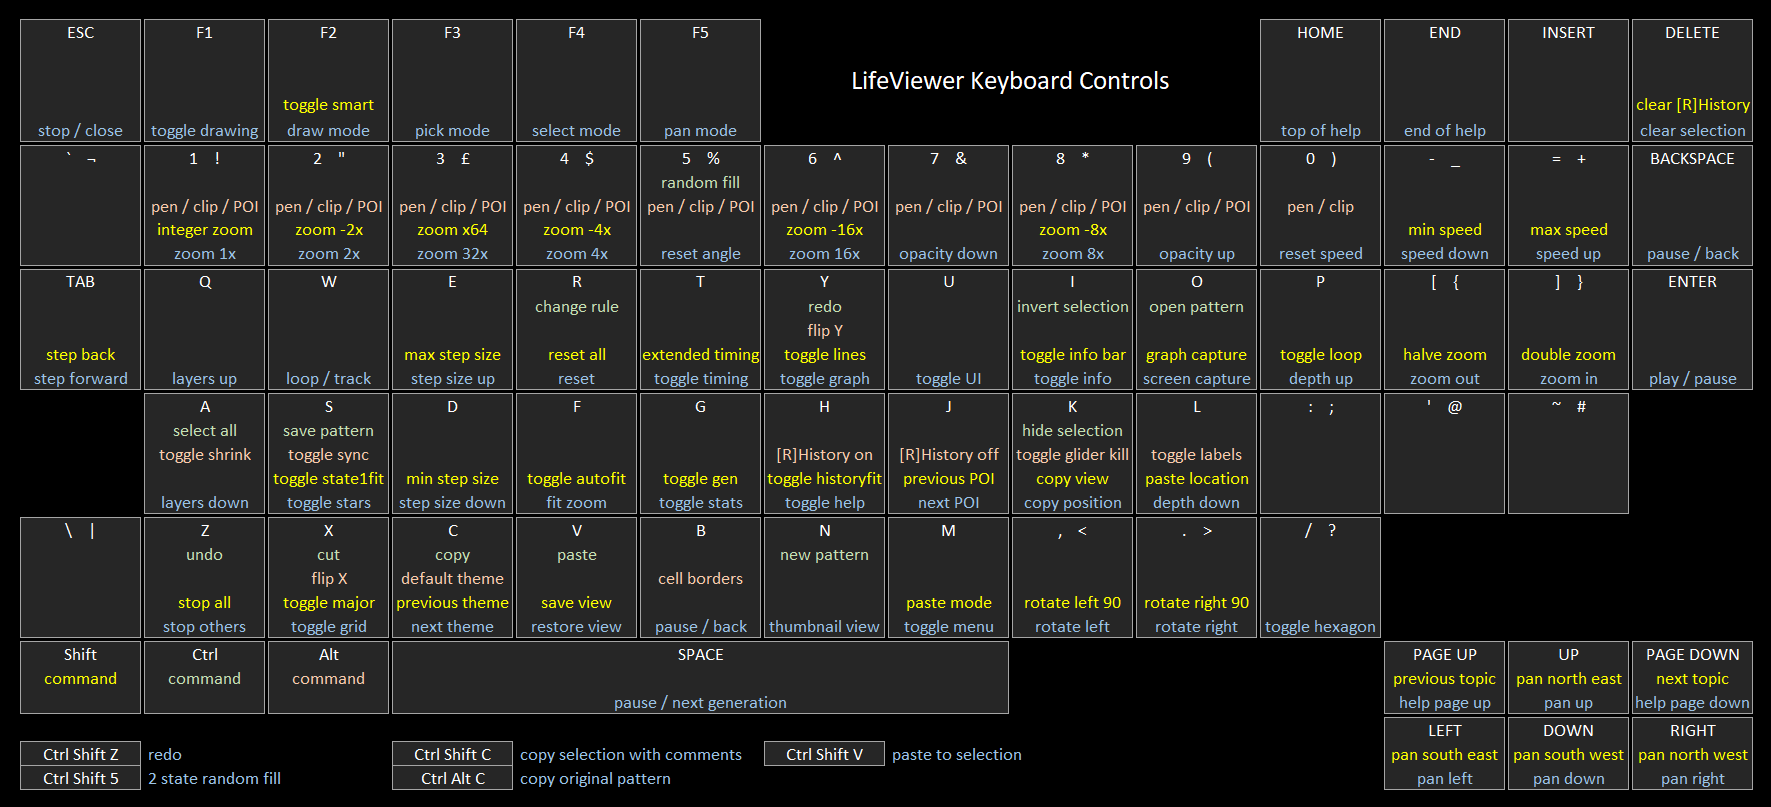
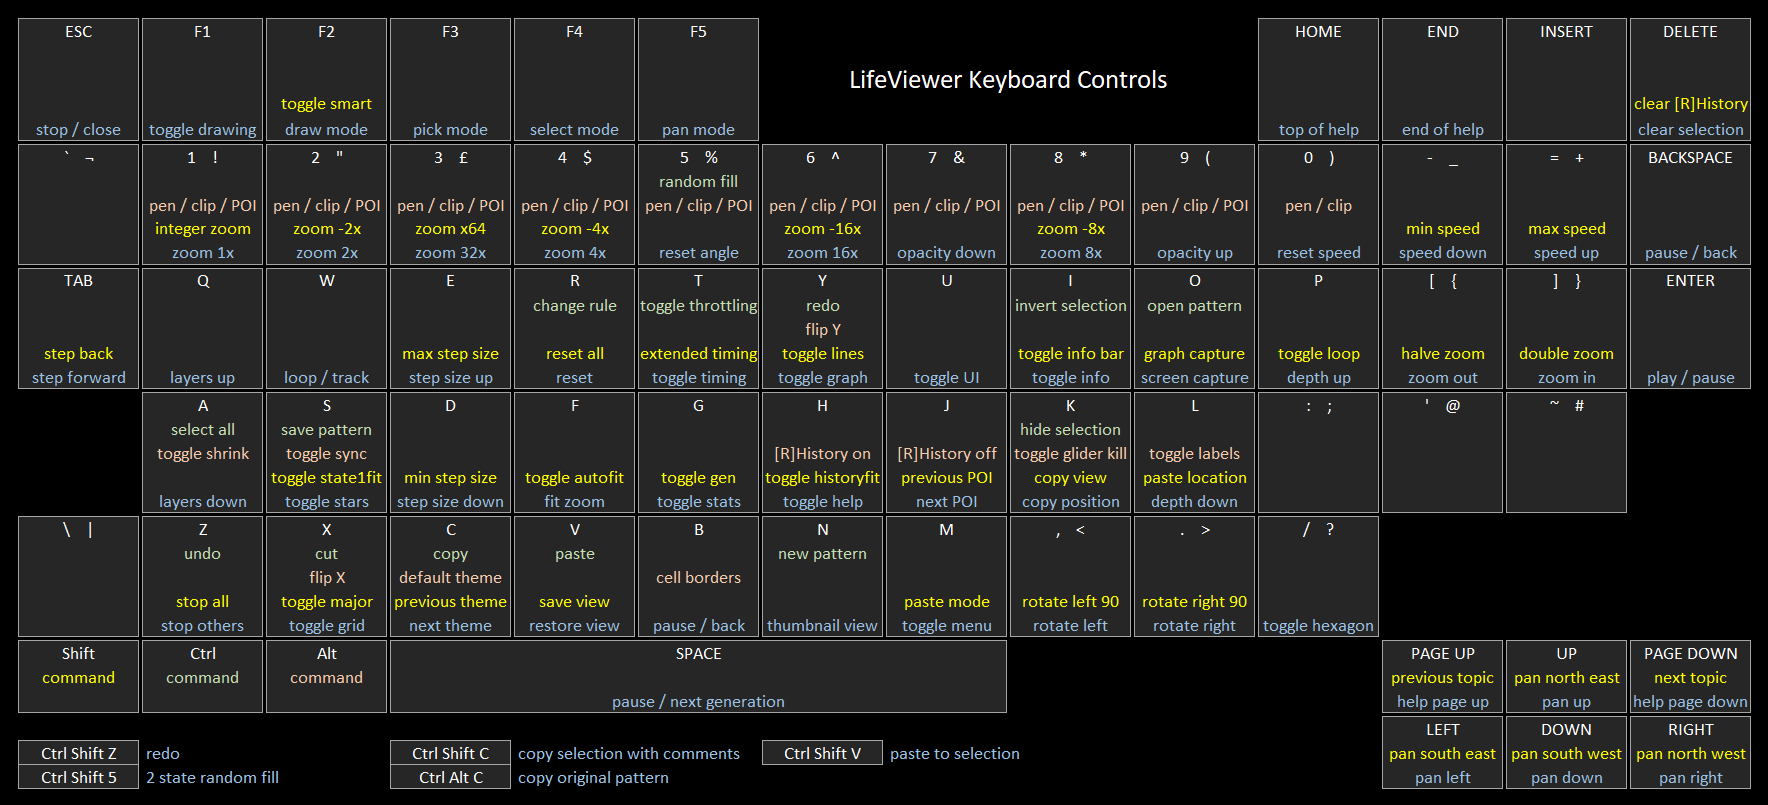
hexagons and triangles now respect [R]History colours, [R]History COLOR commands were being ignored, toggle throttling

diff --git a/js/life.js b/js/life.js
@@ -905,6 +905,8 @@
 	Life.prototype.drawTriangles = function() {
 		var colourGrid = this.colourGrid,
 			colourRow = null,
+			overlayGrid = this.overlayGrid,
+			overlayRow = null,
 			zoomBox = this.historyBox,
 			/** @const {number} */ halfDisplayWidth = this.displayWidth / 2,
 			/** @const {number} */ halfDisplayHeight = this.displayHeight / 2,
@@ -974,12 +976,22 @@
 			displayY = (((y - h2) + yOff) * zoom) + halfDisplayHeight;
 			if (displayY >= -zoom && displayY < this.displayHeight + zoom) {
 				colourRow = colourGrid[y];
+				if (overlayGrid) {
+					overlayRow = overlayGrid[y];
+				}
 				cy = (y - h2);
 				xOffset = xOff - w2;
 				for (x = leftX; x <= rightX; x += 1) {
 					displayX = ((x + xOffset) * zoom) + halfDisplayWidth;
 					if (displayX >= -zoom && displayX < this.displayWidth + zoom * 2) {
-						state = colourRow[x];
+						if (overlayRow) {
+							state = overlayRow[x];
+							if (state === 0) {
+								state = colourRow[x];
+							}
+						} else {
+							state = colourRow[x];
+						}
 						if (state > 0) {
 							// encode coordinate index into the colour state so it can be sorted later
 							colours[j] = (state << LifeConstants.coordBufferBits) + k;
@@ -1513,6 +1525,8 @@
 	Life.prototype.drawHexagons = function() {
 		var colourGrid = this.colourGrid,
 			colourRow = null,
+			overlayGrid = this.overlayGrid,
+			overlayRow = null,
 			zoomBox = this.historyBox,
 			/** @const {number} */ halfDisplayWidth = this.displayWidth / 2,
 			/** @const {number} */ halfDisplayHeight = this.displayHeight / 2,
@@ -1619,12 +1633,22 @@
 			displayY = ((y + yOff - h2) * zoom) + halfDisplayHeight;
 			if (displayY >= -zoom && displayY < this.displayHeight + zoom) {
 				colourRow = colourGrid[y];
+				if (overlayGrid) {
+					overlayRow = overlayGrid[y];
+				}
 				cy = y - h2;
 				xOffset = xOff - w2 - ((cy + yOff) / 2);
 				for (x = leftX; x <= rightX; x += 1) {
 					displayX = ((x + xOffset) * zoom) + halfDisplayWidth;
 					if (displayX >= -zoom && displayX < this.displayWidth + zoom) {
-						state = colourRow[x];
+						if (overlayRow) {
+							state = overlayRow[x];
+							if (state === 0) {
+								state = colourRow[x];
+							}
+						} else {
+							state = colourRow[x];
+						}
 						if (state > 0) {
 							// encode coordinate index into the colour state so it can be sorted later
 							colours[j] = (state << LifeConstants.coordBufferBits) + k;
@@ -4227,17 +4251,17 @@
 		greenChannel = this.greenChannel,
 		blueChannel = this.blueChannel,
 		i = 0,
-		stateColour = 0,
-		numCustom = (customColours ? customColours.length : 0);
+		stateColour = 0;
 
 		// create multi-state pixel colours
 		for (i = 0; i < colourList.length; i += 1) {
 			// check if a custom colour is defined
-			if ((i >= numCustom) || (customColours && customColours[i] === -1)) {
+			if (customColours && customColours[i] !== -1) {
+				// use the custom colour
+				stateColour = customColours[i];
+			} else {
 				// use the library colour
 				stateColour = colourList[i];
-			} else {
-				stateColour = customColours[i];
 			}
 			redChannel[i] = stateColour >> 16;
 			greenChannel[i] = (stateColour >> 8) & 255;
@@ -4256,24 +4280,21 @@
 
 		    // look up the [R]History state translation map
 		    stateMap = ViewConstants.stateMap,
-
-		    // get number of custom colours
-		    numCustom = (customColours ? customColours.length : 0),
 		    i = 0;
 
 		// create default colours
 		for (i = 0; i < colourList.length; i += 1) {
 			// check if a custom colour is defined
-			if ((i >= numCustom) || (customColours && customColours[i] === -1)) {
-				// use the library colour
-				redChannel[128 + stateMap[i]] = colourList[i] >> 16;
-				greenChannel[128 + stateMap[i]] = (colourList[i] >> 8) & 255;
-				blueChannel[128 + stateMap[i]] = colourList[i] & 255;
-			} else {
+			if (customColours && customColours[i] !== -1) {
 				// use the custom colour
 				redChannel[128 + stateMap[i]] = customColours[i] >> 16;
 				greenChannel[128 + stateMap[i]] = (customColours[i] >> 8) & 255;
 				blueChannel[128 + stateMap[i]] = customColours[i] & 255;
+			} else {
+				// use the library colour
+				redChannel[128 + stateMap[i]] = colourList[i] >> 16;
+				greenChannel[128 + stateMap[i]] = (colourList[i] >> 8) & 255;
+				blueChannel[128 + stateMap[i]] = colourList[i] & 255;
 			}
 		}
 	};

diff --git a/js/lifeview.js b/js/lifeview.js
@@ -567,6 +567,9 @@
 	function View(element) {
 		var i = 0;
 
+		// whether multiple steps can bail out early due to performance
+		/** @type {boolean} */ this.canBailOut = true;
+
 		// whether displaying theme selection buttons
 		/** @type {boolean} */ this.showThemeSelection = false;
 
@@ -4248,8 +4251,14 @@
 
 					// check for stop or delta time being too large or single step (ignore time for manual stepping)
 					if (me.engine.counter === me.stopGeneration - 1 || ((deltaTime > ViewConstants.updateThreshold) && !manualStepping)) {
-						// bail out of loop
-						bailout = true;
+
+						// if at stop generation then actually bailout
+						if (me.engine.counter === me.stopGeneration - 1) {
+							bailout = true;
+						} else {
+							// if lagging then bailout if enabled
+							bailout = me.canBailOut;
+						}
 					}
 
 					// check if stats are on and this is the last generation in the step
@@ -7546,6 +7555,11 @@
 			me.universe = Controller.patterns.length - 1;
 		}
 		me.startViewer(Controller.patterns[me.universe].pattern, false);
+	};
+
+	// toggle bailout
+	View.prototype.toggleBailOut = function(me) {
+		me.canBailOut = !me.canBailOut;
 	};
 
 	// shrink button
@@ -11036,6 +11050,9 @@
 			this.isEdge = false;
 		}
 
+		// mark bailout possible
+		this.canBailOut = true;
+
 		// hide theme selection buttons
 		this.showThemeSelection = false;
 
@@ -11507,7 +11524,11 @@
 			// read any script in the title
 			if (pattern.title) {
 				// decode any script commands
-				this.readScript(pattern.title, pattern.numStates);
+				numberValue = pattern.numStates;
+				if (this.engine.isLifeHistory) {
+					numberValue = 7;
+				}
+				this.readScript(pattern.title, numberValue);
 
 				// initialise random number generator from seed
 				myRand.init(this.randomSeed);

diff --git a/js/parser.js b/js/parser.js
@@ -2617,18 +2617,15 @@
 								switch(peekToken) {
 								// [R]History color states
 								case Keywords.offColorWord:
-									peekToken = scriptReader.getNextToken();
-									this.decodeRGB(view, scriptReader, scriptErrors, ViewConstants.offState, nextToken, false, peekToken);
+									this.readCustomThemeElement(view, scriptReader, scriptErrors, ViewConstants.customThemeBackground, whichColour);
 									break;
 
 								case Keywords.onColorWord:
-									peekToken = scriptReader.getNextToken();
-									this.decodeRGB(view, scriptReader, scriptErrors, ViewConstants.onState, nextToken, false, peekToken);
+									this.readCustomThemeElement(view, scriptReader, scriptErrors, ViewConstants.customThemeAlive, whichColour);
 									break;
 
 								case Keywords.historyColorWord:
-									peekToken = scriptReader.getNextToken();
-									this.decodeRGB(view, scriptReader, scriptErrors, ViewConstants.historyState, nextToken, false, peekToken);
+									this.readCustomThemeElement(view, scriptReader, scriptErrors, ViewConstants.customThemeDead, whichColour);
 									break;
 
 								case Keywords.mark1ColorWord:

diff --git a/js/help.js b/js/help.js
@@ -579,6 +579,7 @@
 			y = this.renderHelpLine(view, "Shift D", "minimum step size", ctx, x, y, height, helpLine);
 			y = this.renderHelpLine(view, "Shift E", "maximum step size", ctx, x, y, height, helpLine);
 			y = this.renderHelpLine(view, "0", "reset step and speed", ctx, x, y, height, helpLine);
+			y = this.renderHelpLine(view, "Alt T", "toggle throttling", ctx, x, y, height, helpLine);
 			if (view.waypointsDefined) {
 				if (view.loopGeneration !== -1) {
 					y = this.renderHelpLine(view, "W", "toggle waypoint playback and loop", ctx, x, y, height, helpLine);

diff --git a/js/keys.js b/js/keys.js
@@ -218,6 +218,11 @@
 						me.copySyncToggle.current = me.viewCopySyncList([!me.copySyncExternal], true, me);
 						me.menuManager.notification.notify("Sync Clipboard " + (me.copySyncExternal ? "On" : "Off"), 15, 40, 15, true);
 						break;
+					// t for toggle throttling
+					case 84:
+						me.toggleBailOut(me);
+						me.menuManager.notification.notify("Throttling " + (me.canBailOut ? "On" : "Off"), 15, 40, 15, true);
+						break;
 					// x for flip X
 					case 88:
 						// flip selection horizontally
